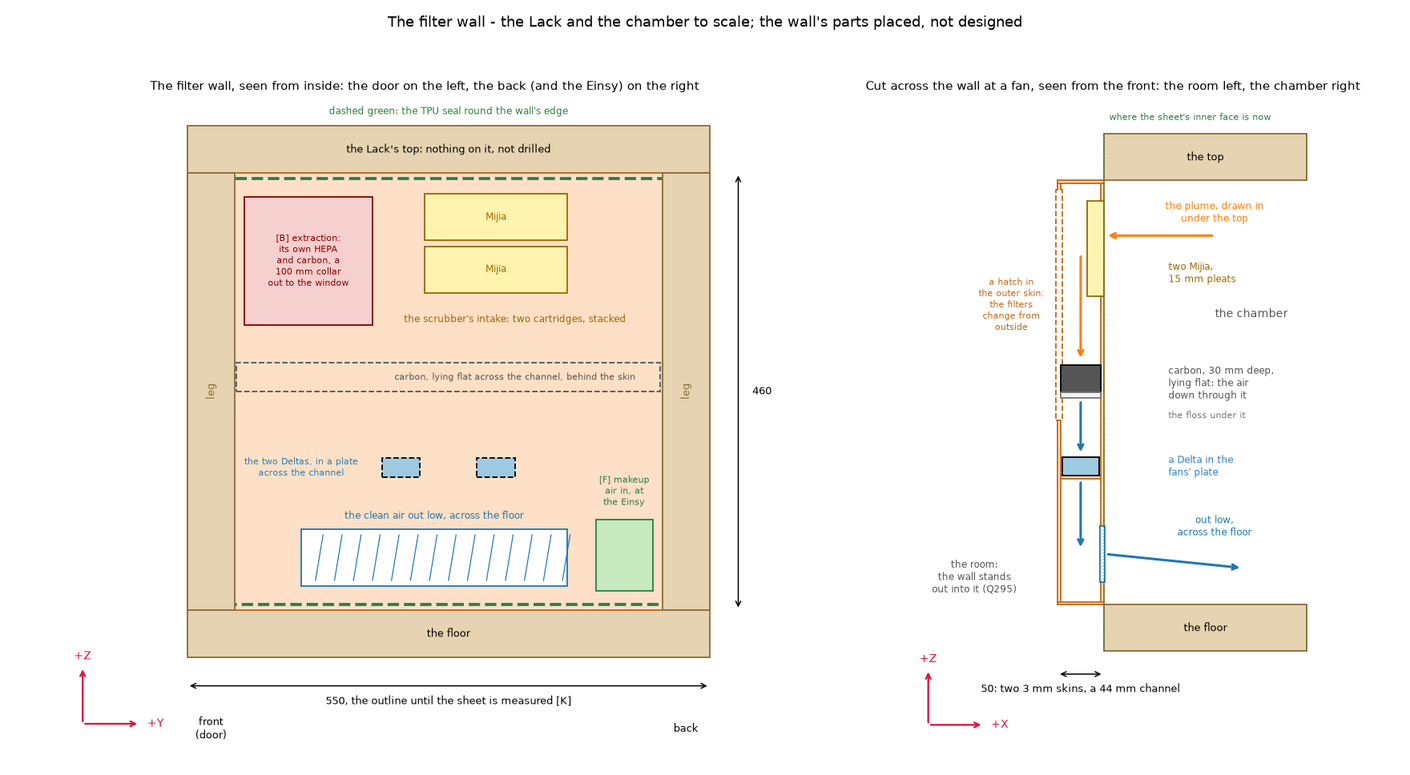
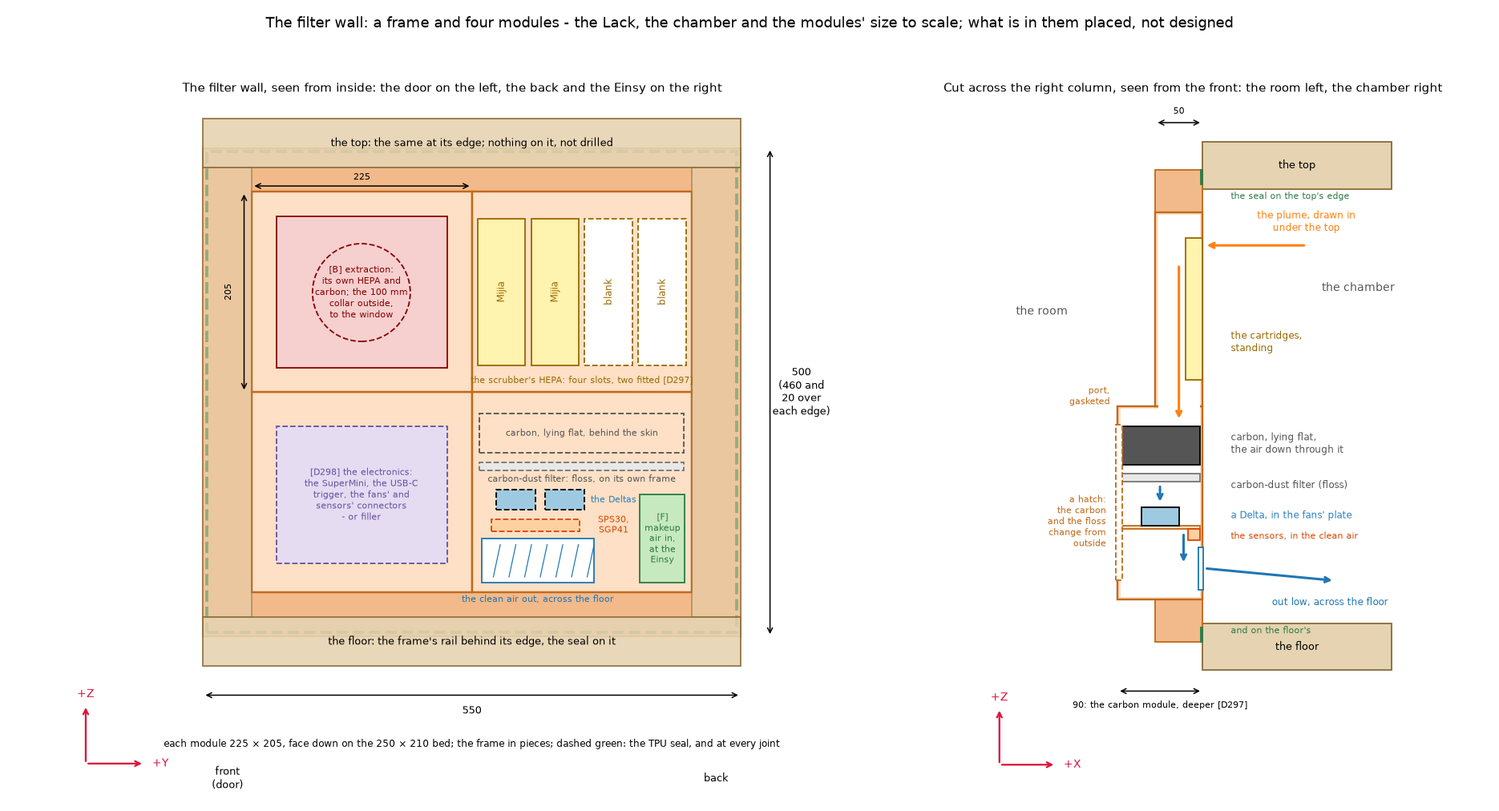
feat(figures): the filter wall as a frame and four modules
Alon, 15 Oct 2026: the wall prints in parts, so modules, a job each -
seen from inside, the HEPA top right, the carbon, the Deltas and the
outlet bottom right, the extraction's vent top left, the bottom left
filler; and the sensors. D291 a: fixed, and it lifts out. T293: the
sheet is 490 x 440, short of the top and the floor; it hangs in hinges
whose model shows a 3.0 mm slot, so the frame takes a 3 mm tongue and
hangs in them too.

Each module is 225 x 205, face down on the 250 x 210 bed; the frame
takes the legs, the rails and the seal, 20 mm over the top's and the
floor's edges. The HEPA module empties into the carbon module through
a gasketed port. The carbon-dust floss gets a frame of its own, and the
SPS30 and SGP41 sit in the clean air after the fans.

Lying across one module, the carbon has half its face: the sizing
script's candidates gain rows for two and four cartridges over a 50,
70 or 90 mm carbon module (two over 50 mm: 2.7 x; two over 90 mm:
3.2 x; four over 90 mm: 4.2 x). Every other row prints as before.

ruff and reuse lint clean (171 of 171 files); the sizing check 3 of 3,
controls 3 of 3.

diff --git a/scripts/figures/filter-wall.py b/scripts/figures/filter-wall.py
@@ -5,15 +5,15 @@
 # requires-python = ">=3.11"
 # dependencies = ["matplotlib"]
 # ///
-"""The filter wall's layout (Alon, 15 Oct 2026: D294 a, Q295, Q290): the enclosure's left wall, printed and about
-50 mm thick, is the scrubber - two Mijia cartridges in its inner face at the top, the carbon lying flat across its
-channel, the two Deltas under it, the clean air out low - with the extraction's vent at its front end and the makeup
-air in at its back end, at the Einsy. From the repository's root:
+"""The filter wall's layout (Alon, 15 Oct 2026: D294 a, Q295, Q290, D291 a, T293): the enclosure's left wall, printed,
+is the scrubber, built as a frame and four modules, one job each - seen from inside, the HEPA top right, the carbon,
+the Deltas and the outlet bottom right, the extraction's vent top left, and the bottom left still to choose. From the
+repository's root:
 
   uv run scripts/figures/filter-wall.py       writes docs/diagrams/filter-wall/layout.png
 
-The Lack, its legs and the chamber are to scale; the wall's parts are placed, not designed, and its outline is the
-chamber's side until the sheet it replaces is measured [K]. The lettered labels are what is still open.
+The Lack, its legs and the chamber are to scale, and so is the modules' size against the printer's bed; what is in
+them is placed, not designed. The lettered labels are what is still open.
 """
 from pathlib import Path
 
@@ -31,24 +31,27 @@ LACK = 550          # the top, square
 TOP = 50            # its thickness (T286)
 LEG = 50            # the legs, square
 CH_H = 460          # the chamber (Q157)
+BED_XY = (250, 210)  # the printer's bed
 # placed, not designed
-SKIN = 3            # each of the wall's two skins
-CHAN = 44           # the channel between them: the Deltas' 40 mm and a wall each side
-MIJIA = (150, 49, 15)            # a cartridge: long, wide, its pleats deep
-HEPA_Y = 250                     # the two cartridges, one above the other, from here along the wall
-HEPA_Z = (334, 389)              # the bottom of each row
-BED_Z, BED_D, FLOSS = 230, 30, 6  # the carbon: its floor, its depth, the floss under it
-FAN_Z, DELTA = 140, (40, 20)     # the fans' plate, and a Delta: square, deep
-FANS_Y = (205, 305)
-OUTLET = (120, 400, 25, 85)      # the clean air's louvre: y from, to, z from, to
-VENT = (60, 195, 300, 435, 30)   # the extraction's vent: y from, to, z from, to, and how far past the outer skin
-MAKEUP = (430, 490, 20, 95)      # the makeup air's grille, across the channel in a sleeve
-HATCH_Z = (200, 450)             # the outer skin's hatch, for the filters
+OVER = 20           # the frame's rails over the top's and the floor's edges, where the seal presses
+MOD = (225, 205)    # a module: along the wall, tall; face down on the bed
+COLS = (LEG, LEG + MOD[0])        # the modules' columns, from the front
+ROWS = (25, 25 + MOD[1])          # the modules' rows, from the floor
+SKIN = 3
+DEPTH = {"hepa": 50, "carbon": 90}  # the right column's two modules, deep
+SLOT = (49, 150)                  # a Mijia cartridge standing: wide, tall; four slots across the module
+FITTED = 2
+BED_Z, BED_D, FLOSS_Z = 168, 40, 150   # in the carbon module: the bed's floor and depth, the floss's frame
+FAN_Z, DELTA = 100, (40, 20)
+FANS_Y = (COLS[1] + 25, COLS[1] + 75)
+OUTLET = (COLS[1] + 10, COLS[1] + 125, 35, 80)
+SENSORS = (COLS[1] + 20, COLS[1] + 110, 88, 100)
+MAKEUP = (COLS[1] + 172, COLS[1] + 218, 35, 125)
 
 WOOD, WOOD_EDGE = "#e6d3b1", "#8a6d3b"
-PRINTED, SEAL = "#fde0c5", "#2d7d46"
-HEPA_C, CARBON_C, FLOSS_C, FAN_C = "#fff3b0", "#555555", "#f2f2f2", "#9ecae1"
-VENT_C, MAKEUP_C = "#f5d0cf", "#c7e9c0"
+FRAME_C, MOD_C, SEAL = "#f2b98a", "#fde0c5", "#2d7d46"
+HEPA_C, CARBON_C, FLOSS_C, FAN_C = "#fff3b0", "#555555", "#e8e8e8", "#9ecae1"
+VENT_C, MAKEUP_C, ELEC_C = "#f5d0cf", "#c7e9c0", "#e5dcf2"
 
 
 def arrows(ax, origin, a, b, size=60):
@@ -68,8 +71,8 @@ def label(ax, x, y, text, **kw):
     ax.text(x, y, text, fontsize=kw.pop("fontsize", 8.5), ha=kw.pop("ha", "center"), va="center", **kw)
 
 
-def flow(ax, a, b, color, lw=2, style="->"):
-    ax.annotate("", b, a, arrowprops={"arrowstyle": style, "color": color, "lw": lw})
+def flow(ax, a, b, color, lw=2):
+    ax.annotate("", b, a, arrowprops={"arrowstyle": "->", "color": color, "lw": lw})
 
 
 def dim(ax, a, b, text, color="black", **kw):
@@ -78,102 +81,132 @@ def dim(ax, a, b, text, color="black", **kw):
     label(ax, (a[0] + b[0]) / 2 + kw.pop("dx", 0), (a[1] + b[1]) / 2 + kw.pop("dy", 0), text, color=color, **kw)
 
 
-fig, (wall, cut) = plt.subplots(1, 2, figsize=(16, 8.8), gridspec_kw={"width_ratios": [1.45, 1]})
+fig, (wall, cut) = plt.subplots(1, 2, figsize=(17, 9.2), gridspec_kw={"width_ratios": [1.5, 1]})
 
 # ---- the wall seen from inside the chamber: Y right (front to back), Z up
-box(wall, 0, -TOP, LACK, TOP, WOOD, ec=WOOD_EDGE)
-label(wall, LACK / 2, -TOP / 2, "the floor")
-box(wall, 0, CH_H, LACK, TOP, WOOD, ec=WOOD_EDGE)
-label(wall, LACK / 2, CH_H + TOP / 2, "the Lack's top: nothing on it, not drilled")
-box(wall, 0, 0, LACK, CH_H, PRINTED, ec="#c26a1b")
-wall.add_patch(mp.Rectangle((6, 6), LACK - 12, CH_H - 12, fill=False, ec=SEAL, lw=2.5, ls="--"))
+box(wall, 0, -OVER, LACK, CH_H + 2 * OVER, FRAME_C, ec="#c26a1b")          # the frame, under everything
+wall.add_patch(mp.Rectangle((4, -OVER + 4), LACK - 8, CH_H + 2 * OVER - 8, fill=False, ec=SEAL, lw=2.5, ls="--"))
+for y, z in ((COLS[0], ROWS[0]), (COLS[0], ROWS[1]), (COLS[1], ROWS[0]), (COLS[1], ROWS[1])):
+    box(wall, y, z, MOD[0], MOD[1], MOD_C, ec="#c26a1b", lw=1.6)
 for y in (0, LACK - LEG):
-    box(wall, y, 0, LEG, CH_H, WOOD, ec=WOOD_EDGE)
-label(wall, LEG / 2, CH_H / 2, "leg", rotation=90, color=WOOD_EDGE)
-label(wall, LACK - LEG / 2, CH_H / 2, "leg", rotation=90, color=WOOD_EDGE)
-# the bed and the fans' plate lie behind the inner skin: dashed
-box(wall, LEG + 2, BED_Z, LACK - 2 * LEG - 4, BED_D, "none", ec=CARBON_C, ls="--", lw=1.2)
-label(wall, LACK / 2 + 70, BED_Z + BED_D / 2, "carbon, lying flat across the channel, behind the skin", color=CARBON_C,
+    box(wall, y, 0, LEG, CH_H, WOOD, ec=WOOD_EDGE, alpha=0.55)
+box(wall, 0, -TOP, LACK, TOP, WOOD, ec=WOOD_EDGE, alpha=0.9)
+box(wall, 0, CH_H, LACK, TOP, WOOD, ec=WOOD_EDGE, alpha=0.9)
+label(wall, LACK / 2, -TOP / 2, "the floor: the frame's rail behind its edge, the seal on it")
+label(wall, LACK / 2, CH_H + TOP / 2, "the top: the same at its edge; nothing on it, not drilled")
+# top left: the extraction's vent
+y0, z0 = COLS[0], ROWS[1]
+box(wall, y0 + 25, z0 + 25, 175, 155, VENT_C, ec="darkred")
+wall.add_patch(mp.Circle((y0 + 112, z0 + 102), 50, fill=False, ec="darkred", ls="--", lw=1.2))
+label(wall, y0 + 112, z0 + 102, "[B] extraction:\nits own HEPA and\ncarbon; the 100 mm\ncollar outside,\nto the window", color="darkred",
       fontsize=7.5)
+# top right: the scrubber's HEPA, four slots
+y0 = COLS[1]
+gap = (MOD[0] - 4 * SLOT[0]) / 5
+z_slot = ROWS[1] + (MOD[1] - SLOT[1]) / 2
+for i in range(4):
+    ys = y0 + gap + i * (SLOT[0] + gap)
+    fitted = i < FITTED
+    box(wall, ys, z_slot, SLOT[0], SLOT[1], HEPA_C if fitted else "white", ec="#9a6a00", ls="-" if fitted else "--")
+    label(wall, ys + SLOT[0] / 2, z_slot + SLOT[1] / 2, "Mijia" if fitted else "blank", rotation=90,
+          color="#9a6a00", fontsize=8)
+label(wall, y0 + MOD[0] / 2, ROWS[1] + 12, "the scrubber's HEPA: four slots, two fitted [D297]", color="#9a6a00",
+      fontsize=7.5)
+# bottom right: the carbon, its dust filter, the Deltas, the clean air out, the sensors, the makeup air
+box(wall, y0 + 8, BED_Z, MOD[0] - 16, BED_D, "none", ec=CARBON_C, ls="--")
+label(wall, y0 + MOD[0] / 2, BED_Z + BED_D / 2, "carbon, lying flat, behind the skin", color=CARBON_C, fontsize=7.5)
+box(wall, y0 + 8, FLOSS_Z, MOD[0] - 16, 8, FLOSS_C, ec="#777", ls="--")
+label(wall, y0 + MOD[0] / 2, FLOSS_Z - 9, "carbon-dust filter: floss, on its own frame", color="#555", fontsize=7.5)
 for fy in FANS_Y:
-    box(wall, fy, FAN_Z, DELTA[0], DELTA[1], FAN_C, ls="--")
-label(wall, FANS_Y[0] - 85, FAN_Z + 10, "the two Deltas, in a plate\nacross the channel", color="#3182bd", fontsize=7.5)
-long, wide, _ = MIJIA
-for z in HEPA_Z:
-    box(wall, HEPA_Y, z, long, wide, HEPA_C, ec="#9a6a00")
-label(wall, HEPA_Y + long / 2, HEPA_Z[1] + wide / 2, "Mijia", color="#9a6a00", fontsize=8)
-label(wall, HEPA_Y + long / 2, HEPA_Z[0] + wide / 2, "Mijia", color="#9a6a00", fontsize=8)
-label(wall, HEPA_Y + long / 2 + 20, HEPA_Z[0] - 28, "the scrubber's intake: two cartridges, stacked",
-      color="#9a6a00", fontsize=8)
-y0, y1, z0, z1 = OUTLET
-box(wall, y0, z0, y1 - y0, z1 - z0, "white", ec="tab:blue")
-for y in range(y0 + 15, y1, 20):
-    wall.plot([y, y + 8], [z0 + 6, z1 - 6], color="tab:blue", lw=0.8)
-label(wall, (y0 + y1) / 2, z1 + 14, "the clean air out low, across the floor", color="tab:blue", fontsize=8)
-y0, y1, z0, z1, _ = VENT
-box(wall, y0, z0, y1 - y0, z1 - z0, VENT_C, ec="darkred")
-label(wall, (y0 + y1) / 2, (z0 + z1) / 2, "[B] extraction:\nits own HEPA\nand carbon, a\n100 mm collar\nout to the window", color="darkred",
-      fontsize=7.5)
-y0, y1, z0, z1 = MAKEUP
-box(wall, y0, z0, y1 - y0, z1 - z0, MAKEUP_C, ec=SEAL)
-label(wall, (y0 + y1) / 2, z1 + 30, "[F] makeup\nair in, at\nthe Einsy", color=SEAL, fontsize=7.5)
-label(wall, LACK / 2, CH_H + TOP + 15, "dashed green: the TPU seal round the wall's edge", color=SEAL, fontsize=8)
-dim(wall, (LACK + 30, 0), (LACK + 30, CH_H), "460", dx=25)
-dim(wall, (0, -TOP - 30), (LACK, -TOP - 30), "550, the outline until the sheet is measured [K]", dy=-16)
-label(wall, 25, -TOP - 75, "front\n(door)")
-label(wall, LACK - 25, -TOP - 75, "back")
-arrows(wall, (-110, -120), "+Y", "+Z")
-wall.set_xlim(-140, LACK + 90)
-wall.set_ylim(-160, CH_H + TOP + 30)
+    box(wall, fy, FAN_Z + 10, DELTA[0], DELTA[1], FAN_C, ls="--")
+label(wall, COLS[1] + 145, FAN_Z + 20, "the Deltas", color="#3182bd", fontsize=7)
+y_a, y_b, z_a, z_b = SENSORS
+box(wall, y_a, z_a, y_b - y_a, z_b - z_a, "#fdd0a2", ec="#d94801", ls="--")
+label(wall, COLS[1] + 145, (z_a + z_b) / 2, "SPS30,\nSGP41", color="#d94801", fontsize=7)
+y_a, y_b, z_a, z_b = OUTLET
+box(wall, y_a, z_a, y_b - y_a, z_b - z_a, "white", ec="tab:blue")
+for y in range(int(y_a) + 12, int(y_b), 16):
+    wall.plot([y, y + 7], [z_a + 6, z_b - 6], color="tab:blue", lw=0.8)
+label(wall, (y_a + y_b) / 2, z_a - 17, "the clean air out, across the floor", color="tab:blue", fontsize=7.5)
+y_a, y_b, z_a, z_b = MAKEUP
+box(wall, y_a, z_a, y_b - y_a, z_b - z_a, MAKEUP_C, ec=SEAL)
+label(wall, (y_a + y_b) / 2, (z_a + z_b) / 2, "[F]\nmakeup\nair in,\nat the\nEinsy", color=SEAL, fontsize=7)
+# bottom left: still to choose
+y0, z0 = COLS[0], ROWS[0]
+box(wall, y0 + 25, z0 + 30, 175, 140, ELEC_C, ec="#6a51a3", ls="--")
+label(wall, y0 + 112, z0 + 100, "[D298] the electronics:\nthe SuperMini, the USB-C\ntrigger, the fans' and\nsensors' connectors\n- or filler",
+      color="#6a51a3", fontsize=7.5)
+# the modules' size against the bed
+dim(wall, (COLS[0], ROWS[1] + MOD[1] + 6), (COLS[1], ROWS[1] + MOD[1] + 6), "225", dy=9, fontsize=7.5)
+dim(wall, (COLS[0] - 8, ROWS[1]), (COLS[0] - 8, ROWS[1] + MOD[1]), "205", dx=-16, fontsize=7.5, rotation=90)
+dim(wall, (LACK + 30, -OVER), (LACK + 30, CH_H + OVER), f"{CH_H + 2 * OVER}\n(460 and\n{OVER} over\neach edge)", dx=32)
+dim(wall, (0, -TOP - 30), (LACK, -TOP - 30), "550", dy=-16)
+label(wall, LACK / 2, -TOP - 80,
+      f"each module {MOD[0]} × {MOD[1]}, face down on the {BED_XY[0]} × {BED_XY[1]} bed; the frame in pieces; "
+      "dashed green: the TPU seal, and at every joint", fontsize=8)
+label(wall, 25, -TOP - 115, "front\n(door)")
+label(wall, LACK - 25, -TOP - 115, "back")
+arrows(wall, (-120, -150), "+Y", "+Z")
+wall.set_xlim(-150, LACK + 110)
+wall.set_ylim(-185, CH_H + TOP + 20)
 wall.set_aspect("equal")
 wall.axis("off")
-wall.set_title("The filter wall, seen from inside: the door on the left, the back (and the Einsy) on the right",
+wall.set_title("The filter wall, seen from inside: the door on the left, the back and the Einsy on the right",
                fontsize=10)
 
-# ---- a section through the wall at a fan, seen from the front: X right (the room left, the chamber right), Z up
-out_x = -(2 * SKIN + CHAN)
-box(cut, 0, -TOP, 220, TOP, WOOD, ec=WOOD_EDGE)
-label(cut, 110, -TOP / 2, "the floor")
-box(cut, 0, CH_H, 220, TOP, WOOD, ec=WOOD_EDGE)
-label(cut, 110, CH_H + TOP / 2, "the top")
-box(cut, out_x, 0, SKIN, CH_H, PRINTED, ec="#c26a1b")
-box(cut, -SKIN, 0, SKIN, CH_H, PRINTED, ec="#c26a1b")
-box(cut, out_x, 0, 2 * SKIN + CHAN, 3, PRINTED, ec="#c26a1b")
-box(cut, out_x, CH_H - 3, 2 * SKIN + CHAN, 3, PRINTED, ec="#c26a1b")
-box(cut, out_x - 2, HATCH_Z[0], SKIN + 4, HATCH_Z[1] - HATCH_Z[0], "white", ec="#c26a1b", ls="--")
-label(cut, out_x - 50, (HATCH_Z[0] + HATCH_Z[1]) / 2, "a hatch in\nthe outer skin:\nthe filters\nchange from\noutside", fontsize=7.5,
-      color="#c26a1b")
-box(cut, -SKIN - MIJIA[2], HEPA_Z[0], MIJIA[2] + SKIN, HEPA_Z[1] + MIJIA[1] - HEPA_Z[0], HEPA_C, ec="#9a6a00")
-box(cut, out_x + SKIN, BED_Z, CHAN, BED_D, CARBON_C, ec="black")
-box(cut, out_x + SKIN, BED_Z - FLOSS, CHAN, FLOSS, FLOSS_C, ec="#777")
-box(cut, out_x + SKIN, FAN_Z - 3, CHAN, 3, PRINTED, ec="#c26a1b")
-box(cut, out_x + SKIN + 2, FAN_Z, DELTA[0], DELTA[1], FAN_C)
+# ---- cut across the right column, seen from the front: X right (the room left, the chamber right), Z up
+hd, cd = DEPTH["hepa"], DEPTH["carbon"]
+box(cut, 0, -TOP, 200, TOP, WOOD, ec=WOOD_EDGE)
+label(cut, 100, -TOP / 2, "the floor")
+box(cut, 0, CH_H, 200, TOP, WOOD, ec=WOOD_EDGE)
+label(cut, 100, CH_H + TOP / 2, "the top")
+box(cut, -hd, -OVER, hd, ROWS[0] + OVER, FRAME_C, ec="#c26a1b")                # the bottom rail
+box(cut, -hd, ROWS[1] + MOD[1], hd, CH_H + OVER - ROWS[1] - MOD[1], FRAME_C, ec="#c26a1b")  # the top rail
+box(cut, -cd, ROWS[0], cd, MOD[1], MOD_C, ec="#c26a1b", lw=1.6)                # the carbon module, deeper
+box(cut, -hd, ROWS[1], hd, MOD[1], MOD_C, ec="#c26a1b", lw=1.6)                # the HEPA module
+box(cut, -cd + SKIN, ROWS[0] + SKIN, cd - 2 * SKIN, MOD[1] - 2 * SKIN, "white", ec="none")
+box(cut, -hd + SKIN, ROWS[1] + SKIN, hd - 2 * SKIN, MOD[1] - 2 * SKIN, "white", ec="none")
+box(cut, -hd + SKIN, ROWS[1] - 4, hd - 2 * SKIN, 8, "white", ec="none")       # the port between them
+label(cut, -cd - 8, ROWS[1] + 10, "port,\ngasketed", fontsize=7, ha="right", color="#c26a1b")
+for z in (-OVER, CH_H + 5):
+    box(cut, -2, z, 2, OVER - 5, SEAL, ec=SEAL)
+box(cut, -SKIN - 15, z_slot, 15 + SKIN, SLOT[1], HEPA_C, ec="#9a6a00")
+box(cut, -cd + SKIN, BED_Z, cd - 2 * SKIN, BED_D, CARBON_C)
+box(cut, -cd + SKIN, FLOSS_Z, cd - 2 * SKIN, 8, FLOSS_C, ec="#777")
+box(cut, -cd + SKIN, FAN_Z, cd - 2 * SKIN, 3, MOD_C, ec="#c26a1b")
+box(cut, -cd / 2 - DELTA[0] / 2, FAN_Z + 3, DELTA[0], DELTA[1], FAN_C)
+box(cut, -SKIN - 12, SENSORS[2], 12, SENSORS[3] - SENSORS[2], "#fdd0a2", ec="#d94801")
 box(cut, -SKIN - 1, OUTLET[2], SKIN + 2, OUTLET[3] - OUTLET[2], "white", ec="tab:blue")
-flow(cut, (120, 400), (2, 400), "tab:orange")
-label(cut, 120, 425, "the plume, drawn in\nunder the top", color="tab:orange", fontsize=8)
-mid = out_x + SKIN + CHAN / 2
-flow(cut, (mid, 380), (mid, BED_Z + BED_D + 5), "tab:orange")
-flow(cut, (mid, BED_Z - FLOSS - 2), (mid, FAN_Z + DELTA[1] + 3), "tab:blue")
-flow(cut, (mid, FAN_Z - 5), (mid, 60), "tab:blue")
-flow(cut, (2, 55), (150, 40), "tab:blue")
-label(cut, 120, 85, "out low,\nacross the floor", color="tab:blue", fontsize=8)
-label(cut, 70, HEPA_Z[0] + 25, "two Mijia,\n15 mm pleats", color="#9a6a00", fontsize=8, ha="left")
-label(cut, 70, BED_Z + 10, "carbon, 30 mm deep,\nlying flat: the air\ndown through it", color=CARBON_C, fontsize=8, ha="left")
-label(cut, 70, FAN_Z + 10, "a Delta in the\nfans' plate", color="#3182bd", fontsize=8, ha="left")
-label(cut, 70, BED_Z - 25, "the floss under it", color="#777", fontsize=7.5, ha="left")
-dim(cut, (out_x, -TOP - 25), (0, -TOP - 25), "50: two 3 mm skins, a 44 mm channel", dy=-16)
-label(cut, -140, 30, "the room:\nthe wall stands\nout into it (Q295)", fontsize=8, color="#555")
-label(cut, 160, 315, "the chamber", fontsize=9, color="#555")
-cut.plot([0, 0], [-TOP, CH_H + TOP], color=SEAL, lw=1, ls=":")
-label(cut, 6, CH_H + TOP + 18, "where the sheet's inner face is now", color=SEAL, fontsize=7.5, ha="left")
-arrows(cut, (-190, -130), "+X", "+Z")
-cut.set_xlim(-210, 230)
-cut.set_ylim(-170, CH_H + TOP + 40)
+box(cut, -cd - 2, ROWS[0] + 20, SKIN + 4, MOD[1] - 40, "white", ec="#c26a1b", ls="--")
+flow(cut, (110, 400), (2, 400), "tab:orange")
+label(cut, 110, 425, "the plume, drawn in\nunder the top", color="tab:orange", fontsize=8)
+flow(cut, (-hd / 2, 380), (-hd / 2, BED_Z + BED_D + 6), "tab:orange")
+flow(cut, (-cd / 2, FLOSS_Z - 3), (-cd / 2, FAN_Z + DELTA[1] + 6), "tab:blue")
+flow(cut, (-cd / 2 + 25, FAN_Z - 4), (-cd / 2 + 25, 62), "tab:blue")
+flow(cut, (2, 58), (140, 45), "tab:blue")
+label(cut, 135, 22, "out low, across the floor", color="tab:blue", fontsize=8)
+label(cut, 30, z_slot + 40, "the cartridges,\nstanding", color="#9a6a00", fontsize=8, ha="left")
+label(cut, 30, BED_Z + 22, "carbon, lying flat,\nthe air down through it", color=CARBON_C, fontsize=8, ha="left")
+label(cut, 30, FLOSS_Z - 4, "carbon-dust filter (floss)", color="#555", fontsize=8, ha="left")
+label(cut, 30, FAN_Z + 14, "a Delta, in the fans' plate", color="#3182bd", fontsize=8, ha="left")
+label(cut, 30, SENSORS[2] + 4, "the sensors, in the clean air", color="#d94801", fontsize=7.5, ha="left")
+label(cut, -cd - 12, ROWS[0] + MOD[1] / 2 - 20, "a hatch:\nthe carbon\nand the floss\nchange from\noutside", fontsize=7,
+      color="#c26a1b", ha="right")
+label(cut, 30, CH_H - 8, "the seal on the top's edge", color=SEAL, fontsize=7, ha="left")
+label(cut, 30, -8, "and on the floor's", color=SEAL, fontsize=7, ha="left")
+dim(cut, (-hd, CH_H + TOP + 20), (0, CH_H + TOP + 20), f"{hd}", dy=12, fontsize=7.5)
+dim(cut, (-cd, -TOP - 22), (0, -TOP - 22), f"{cd}: the carbon module, deeper [D297]", dy=-15, fontsize=7.5)
+label(cut, 165, 355, "the chamber", fontsize=9, color="#555")
+label(cut, -170, 330, "the room", fontsize=9, color="#555")
+arrows(cut, (-215, -150), "+X", "+Z")
+cut.set_xlim(-235, 215)
+cut.set_ylim(-185, CH_H + TOP + 45)
 cut.set_aspect("equal")
 cut.axis("off")
-cut.set_title("Cut across the wall at a fan, seen from the front: the room left, the chamber right", fontsize=10)
+cut.set_title("Cut across the right column, seen from the front: the room left, the chamber right", fontsize=10)
 
-fig.suptitle("The filter wall - the Lack and the chamber to scale; the wall's parts placed, not designed", fontsize=12)
+fig.suptitle("The filter wall: a frame and four modules - the Lack, the chamber and the modules' size to scale; "
+             "what is in them placed, not designed", fontsize=12)
 fig.tight_layout(rect=(0, 0, 1, 0.95))
 OUT.parent.mkdir(parents=True, exist_ok=True)
 fig.savefig(OUT, dpi=110)

diff --git a/scripts/analysis/scrubber-sizing.py b/scripts/analysis/scrubber-sizing.py
@@ -165,11 +165,18 @@ def show():
 # name, the face the air enters by [m2], and the pleats' depth [mm]. A round filter takes its air in round its
 # side, so its face is its side's area. Every pleat depth not stated is taken as the model's 15 mm: deeper pleats
 # carry more paper per face, so those flows are low if anything. A fourth value, where given, is the carbon's face
-# in place of BED_FACE: the filter wall's bed lies across its channel, 44 mm thick between the legs' 450 mm.
+# in place of BED_FACE: the filter wall's bed lies across its channel, 44 mm thick between the legs' 450 mm; in
+# its modules (Alon, 15 Oct 2026), across one module's inside, 219 mm by the module's depth less two 3 mm skins.
 CANDIDATES = [
     ("Mijia 1C / Dreame F9, flat: the chosen", 0.150 * 0.049, 15),
     ("two Mijia cartridges, standing as two walls", 2 * 0.150 * 0.049, 15),
     ("two Mijia in a filter wall, a 44 x 450 bed", 2 * 0.150 * 0.049, 15, 0.044 * 0.450),
+    ("two Mijia, a 50 mm carbon module", 2 * 0.150 * 0.049, 15, 0.044 * 0.219),
+    ("two Mijia, a 70 mm carbon module", 2 * 0.150 * 0.049, 15, 0.064 * 0.219),
+    ("two Mijia, a 90 mm carbon module", 2 * 0.150 * 0.049, 15, 0.084 * 0.219),
+    ("four Mijia, a 50 mm carbon module", 4 * 0.150 * 0.049, 15, 0.044 * 0.219),
+    ("four Mijia, a 70 mm carbon module", 4 * 0.150 * 0.049, 15, 0.064 * 0.219),
+    ("four Mijia, a 90 mm carbon module", 4 * 0.150 * 0.049, 15, 0.084 * 0.219),
     ("120 x 120 x 15 pad", 0.120 * 0.120, 15),
     ("two 120 x 120 x 15 pads, as two walls", 2 * 0.120 * 0.120, 15),
     ("FlyBy Tom's two Roomba filters", 0.0132, 10),

diff --git a/docs/bentobox-scrubber.md b/docs/bentobox-scrubber.md
@@ -1008,7 +1008,7 @@ enclosure's back, and the enclosure stands against the room's wall.
 | The duct outside [E] | 100 mm flex to the 120 mm fan already in the window, on the enclosure's left | Alon's photos (T286) |
 | On the top [I] | the drybox, about 40 × 30 cm with its tubes down through the top, and the electronics beside it; they can move | Alon (T286) |
 | The makeup inlet [F] | low at the back left, where the Einsy is: in the filter wall's back end | Alon (Q290): the Einsy in its original place, at the back left |
-| The left sheet [K] | in printed clips on the legs; the front panel hangs on a hinge at the front-right leg | Alon's photos; the sheet's size not measured |
+| The left sheet [K] | 490 wide × 440 tall, 3 mm: short of the top and the floor, so it never sealed; it hangs in printed hinges, 64 × 15 × 20 mm with a 3.0 mm slot that a hex knob bolt tightens (*lack hinge with tightening*) | Alon (15 Oct 2026: T293); the slot read off the hinge's model |
 
 **The printed wall** (Alon, 15 Oct 2026: D287 a): the left wall, on the window's side, the shortest run for the
 extraction's flex, is replaced by a printed one that carries all three:
@@ -1066,14 +1066,49 @@ printer's gap to it no longer limits it.
   sleeve across its channel. The extraction's vent sits at the other end, high, as far from it as the wall allows,
   so that it does not draw the fresh air straight back out. Turned round onto the right, the inlet would leave the
   Einsy; a grille in the left door would then take over.
-- **The two cartridges stack**, one above the other in the inner face, so the vent keeps the front end.
-- **Fixed or opening** is still open (D291).
+- **Fixed, and lifts out** (Alon, 15 Oct 2026: D291 a): the frame's hinge edge carries a 3 mm tongue, so the wall
+  hangs in the hinges the sheet hangs in, locked by their knob bolts, and lifts out for the Einsy. It swaps with the
+  plexiglass door by the same token.
 
-Drawn by [`scripts/figures/filter-wall.py`](../scripts/figures/filter-wall.py): the Lack and the chamber to
-scale, the wall's parts placed, not designed; its outline is the chamber's side until the sheet it replaces is
-measured [K].
+### The filter wall in modules
 
-![The filter wall. Seen from inside: the wall between the floor and the Lack's top, a leg at each end, a TPU seal round its edge; at the top the scrubber's intake, two Mijia cartridges stacked in its inner face, and at the front end the extraction's vent with its own filter and a 100 mm collar; behind the skin, the carbon lying flat across the channel and, under it, the two Deltas in a plate; the clean air out low through a long louvre across the floor; the makeup air in low at the back end, at the Einsy. Cut across at a fan: two 3 mm skins and a 44 mm channel, 50 mm in all, standing out into the room; the plume drawn in under the top through the cartridges, down through the carbon and its floss, through the Delta, and out low across the floor; a hatch in the outer skin to change the filters from outside](diagrams/filter-wall/layout.png)
+Alon, 15 Oct 2026: the wall is printed in parts, so build it as modules, each a part of the wall and a job of its own:
+seen from inside, *"Top right for the HEPA, bottom right for the delta and the carbon and outlet, top left the exhaust
+and filter, bottom left filler"*, and the sensors added. Seen from inside, the right is the back: the HEPA, the carbon
+and the makeup air at the Einsy's end, the extraction's vent at the door's.
+
+- **A frame and four modules.** Each module is 225 × 205 mm, to print face down on the 250 × 210 bed; the frame
+  covers the legs and the rails, and prints in pieces. The wall is 460 tall and 20 more over each of the top's and
+  the floor's edges, where the seal presses: the sheet's 440 never reached them.
+- **The right column is one airway.** The HEPA module empties into the carbon module through a gasketed port, with no
+  rail across it. Everything that crosses a joint (that port, the makeup air's sleeve, the fans' and sensors' wires) is
+  sealed, and so is every joint of the frame, where the seal round the edge would break.
+- **The carbon-dust filter**: a sheet of floss under the carbon on a frame of its own, changed on its own, as the
+  BentoBox's dust section was; the sizing model counts it.
+- **The sensors**: the SPS30 and the SGP41 in the clean air after the fans, in the carbon module. The chamber's own
+  monitor reads the air going in, so the two together give the wall's efficiency.
+- **One module's width costs air.** Lying flat across one module, the carbon has half the face it had across the whole
+  wall, and the flow falls from 3.2 to 2.7 times today's. A deeper carbon module, or more cartridges, wins it back
+  ([`scrubber-sizing.py candidates`](../scripts/analysis/scrubber-sizing.py), the Deltas on their published curve):
+
+  | Cartridges | The carbon module, deep | Mid grade | H13-like |
+  |---|---|---|---|
+  | two | 50 mm | 1.93 L/s, 2.7 × | 1.53 L/s, 2.1 × |
+  | two | 70 mm | 2.18 L/s, 3.0 × | 1.65 L/s, 2.3 × |
+  | two | 90 mm | 2.30 L/s, 3.2 × | 1.70 L/s, 2.4 × |
+  | four | 50 mm | 2.33 L/s, 3.2 × | 2.06 L/s, 2.9 × |
+  | four | 70 mm | 2.77 L/s, 3.8 × | 2.35 L/s, 3.3 × |
+  | four | 90 mm | 3.03 L/s, 4.2 × | 2.50 L/s, 3.5 × |
+
+- **More filters fit**: the HEPA module takes four cartridges standing side by side, 49 mm wide each. Drawn with two
+  fitted and two blanks; how deep and how many is open (D297).
+- **The bottom left**: filler, or the electronics' bay - the SuperMini, the USB-C trigger and the fans' and sensors'
+  connectors (D298).
+
+Drawn by [`scripts/figures/filter-wall.py`](../scripts/figures/filter-wall.py): the Lack, the chamber and the modules'
+size to scale; what is in them placed, not designed.
+
+![The filter wall as a frame and four modules, seen from inside. Top left, the extraction's vent with its own filter and a 100 mm collar outside. Top right, the scrubber's HEPA: four slots for Mijia cartridges standing side by side, two fitted and two blank. Bottom right, behind the skin, the carbon lying flat, the carbon-dust floss on its own frame under it, the two Deltas, the SPS30 and SGP41 in the clean air, the outlet louvre low, and the makeup air's inlet at the back end by the Einsy. Bottom left, the electronics or filler. Each module 225 by 205 mm; the frame over the legs and 20 mm over the top's and the floor's edges, a TPU seal round it. Cut across the right column: the HEPA module 50 mm deep over the carbon module 90 mm deep, joined by a gasketed port; the plume drawn in under the top, down through the carbon, the floss and a Delta, past the sensors and out low across the floor; a hatch outside for the carbon and the floss](diagrams/filter-wall/layout.png)
 
 ## How long the carbon lasts
 
